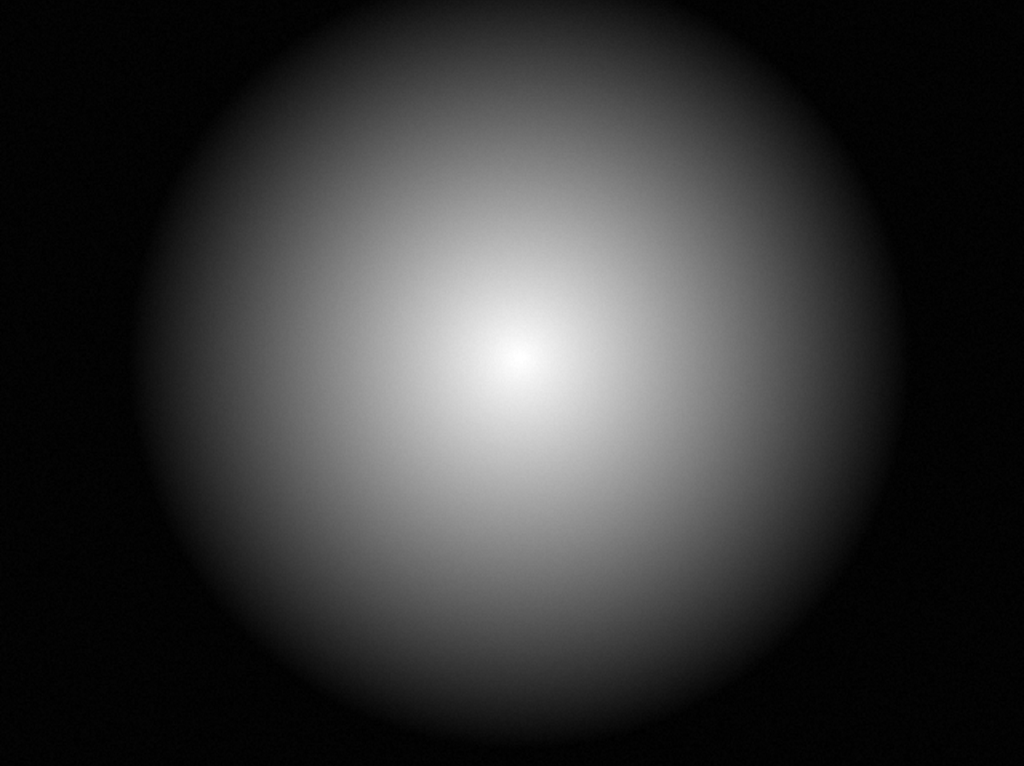
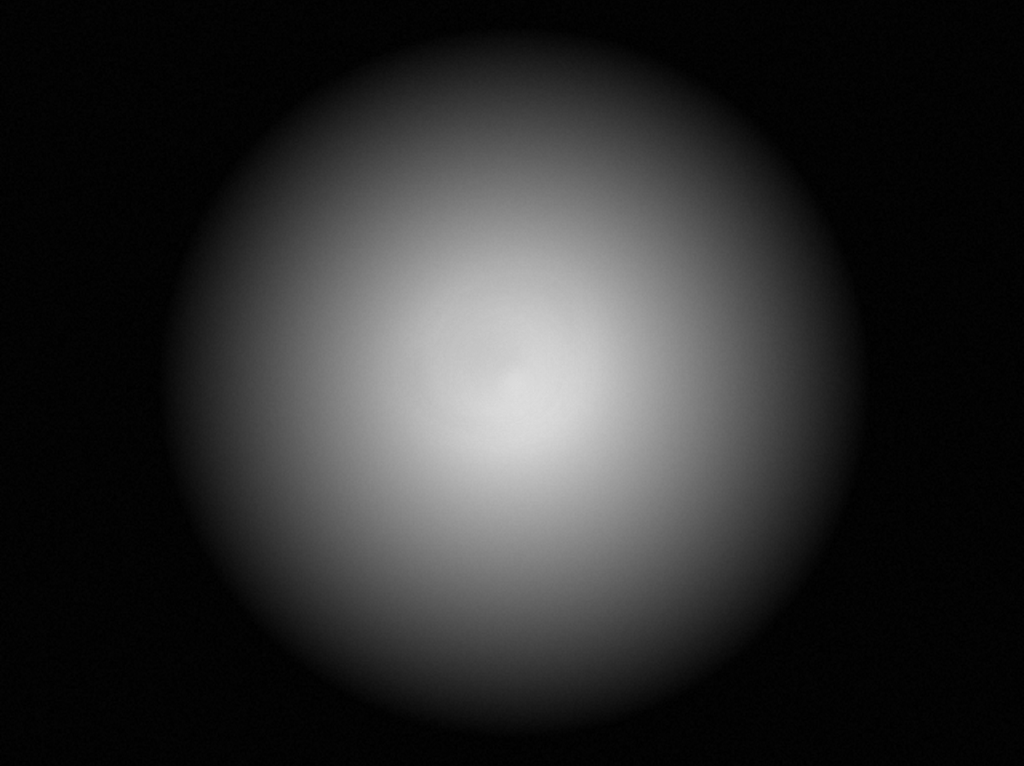
Fixed darkness spotlight to follow player into corners and still leave everything else dark at the edges.

Changed region(s): [[0.1562, 0.0, 0.875, 0.5405]]

diff --git a/src/main.js b/src/main.js
@@ -33,7 +33,11 @@ window.onload = function() {
         });
         drawForegroundTiles();
         drawRect(0, 0, canvasWidth, canvasHeight, 'rgba(50, 0, 130, 0.7)', true);
-        drawImage('spotlight.png', 0, 0, true);
+        drawRect(player.x - canvasWidth / 2, player.y - canvasHeight, canvasWidth, canvasHeight / 2, 'black');
+        drawRect(player.x + canvasWidth / 2, player.y - canvasHeight, canvasWidth / 2, canvasHeight * 2, 'black');
+        drawRect(player.x - canvasWidth / 2, player.y + canvasHeight / 2, canvasWidth, canvasHeight / 2, 'black');
+        drawRect(player.x - canvasWidth, player.y - canvasHeight, canvasWidth / 2, canvasHeight * 2, 'black');
+        drawImage('spotlight.png', player.x - canvasWidth / 2, player.y - canvasHeight / 2);
         drawHud();
     }
 
